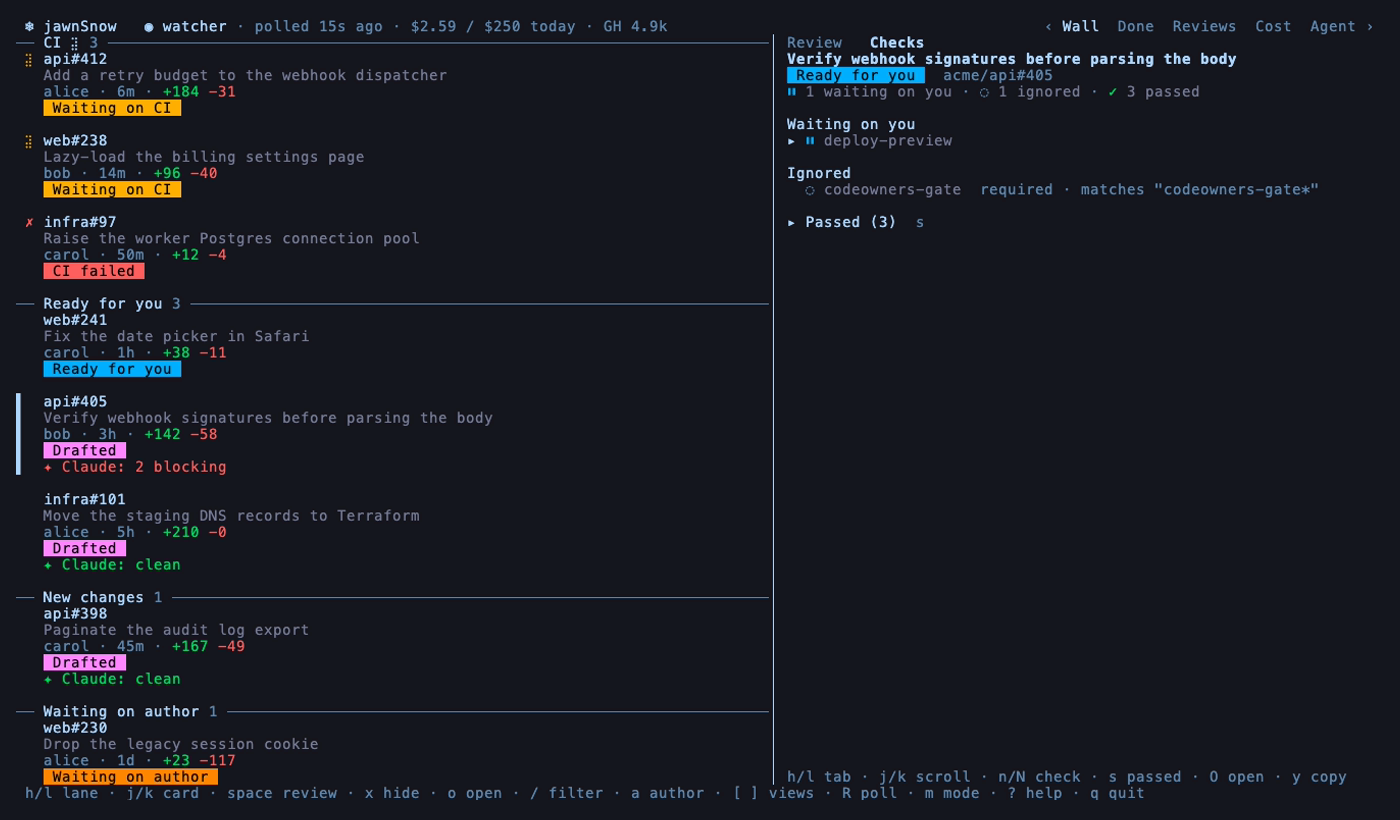
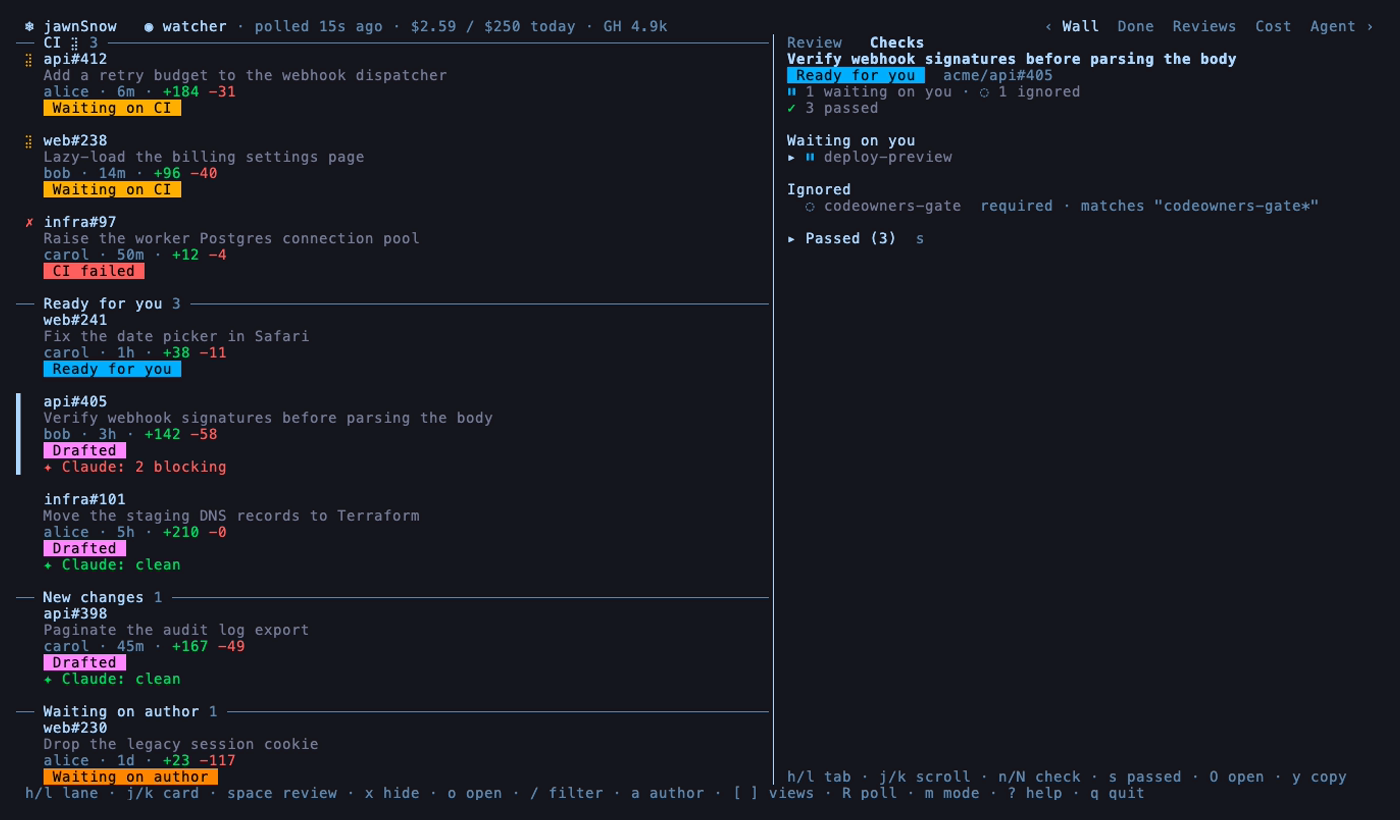
docs: say passed checks get their own lane line row

Changed region(s): [[0.5529, 0.122, 0.9521, 0.3049], [0.7986, 0.0915, 0.86, 0.122]]

diff --git a/docs/views.md b/docs/views.md
@@ -162,7 +162,14 @@ The drawer has two tabs, Review and Checks. `h` and `l` move between them, and `
 
 - The tab row: `Review   Checks`, with the open tab in the accent colour.
 - The PR's title, its status chip, and `owner/name#number`.
-- The lane line: the PR's checks counted by how they counted towards its lane, such as `✗ 1 failed · ⏸ 1 waiting on you · ◌ 1 ignored · ✓ 44 passed`. Only groups with checks are shown. When they don't fit on one line, they go two to a line in aligned columns, or one to a line when the drawer is too narrow for two:
+- The lane line: the PR's checks counted by how they counted towards its lane. Only groups with checks are shown, and the passed checks always have a row of their own:
+
+  ```
+  ✗ 1 failed · ⏸ 1 waiting on you · ◌ 1 ignored
+  ✓ 44 passed
+  ```
+
+  When the other groups don't fit on one row, they go two to a row in aligned columns, or one to a row when the drawer is too narrow for two:
 
   ```
   ✗ 1 failed    ⏸ 1 waiting on you
